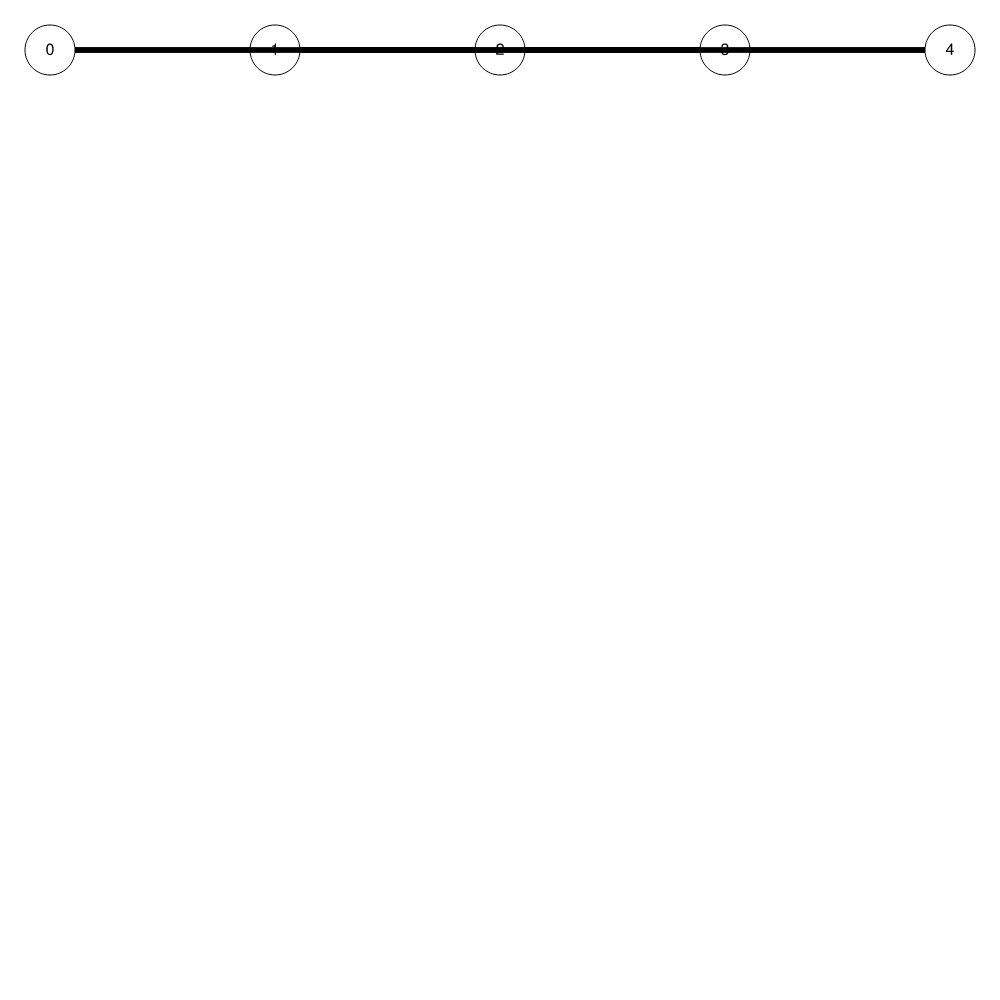
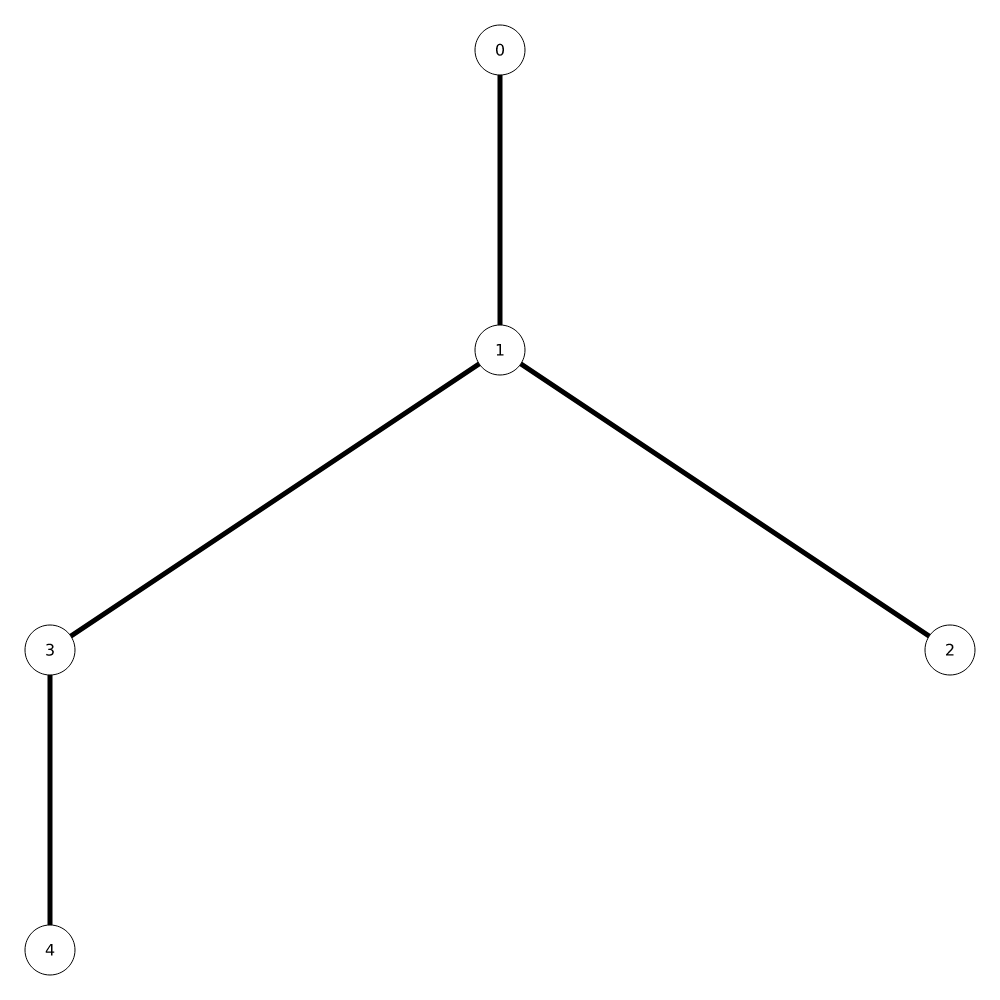
docs: Add example for hierarchical layout

diff --git a/examples/graph_with_hierarchical_layout.rs b/examples/graph_with_hierarchical_layout.rs
@@ -1,24 +1,24 @@
 use petgraph::Graph;
-use petgraph::graph::UnGraph;
 use visgraph::settings::SettingsBuilder;
 use visgraph::{graph_to_img, Layout, Orientation};
 
 fn main() {
-    // Create a complete graph with 100 nodes.
-    let mut graph = UnGraph::new_undirected();
-    let num_nodes = 5;
-    let nodes: Vec<_> = (0..num_nodes)
-        .map(|_| graph.add_node(()))
-        .collect();
+    let mut graph = Graph::new();
 
-    for i in 0..num_nodes {
-        for j in (i + 1)..num_nodes {
-            graph.add_edge(nodes[i], nodes[j], ());
-        }
-    }
+    let a = graph.add_node(());
+    let b = graph.add_node(());
+    let c = graph.add_node(());
+    let d = graph.add_node(());
+    let e = graph.add_node(());
+
+    graph.add_edge(a, b, ());
+    graph.add_edge(b, c, ());
+    graph.add_edge(b, d, ());
+    graph.add_edge(d, e, ());
 
     let settings = SettingsBuilder::new()
-        .layout(Layout::Hierarchical(Orientation::RightToLeft))
+        // Use hierarchical layout
+        .layout(Layout::Hierarchical(Orientation::default()))
         .build()
         .expect("Values should be valid.");
 
